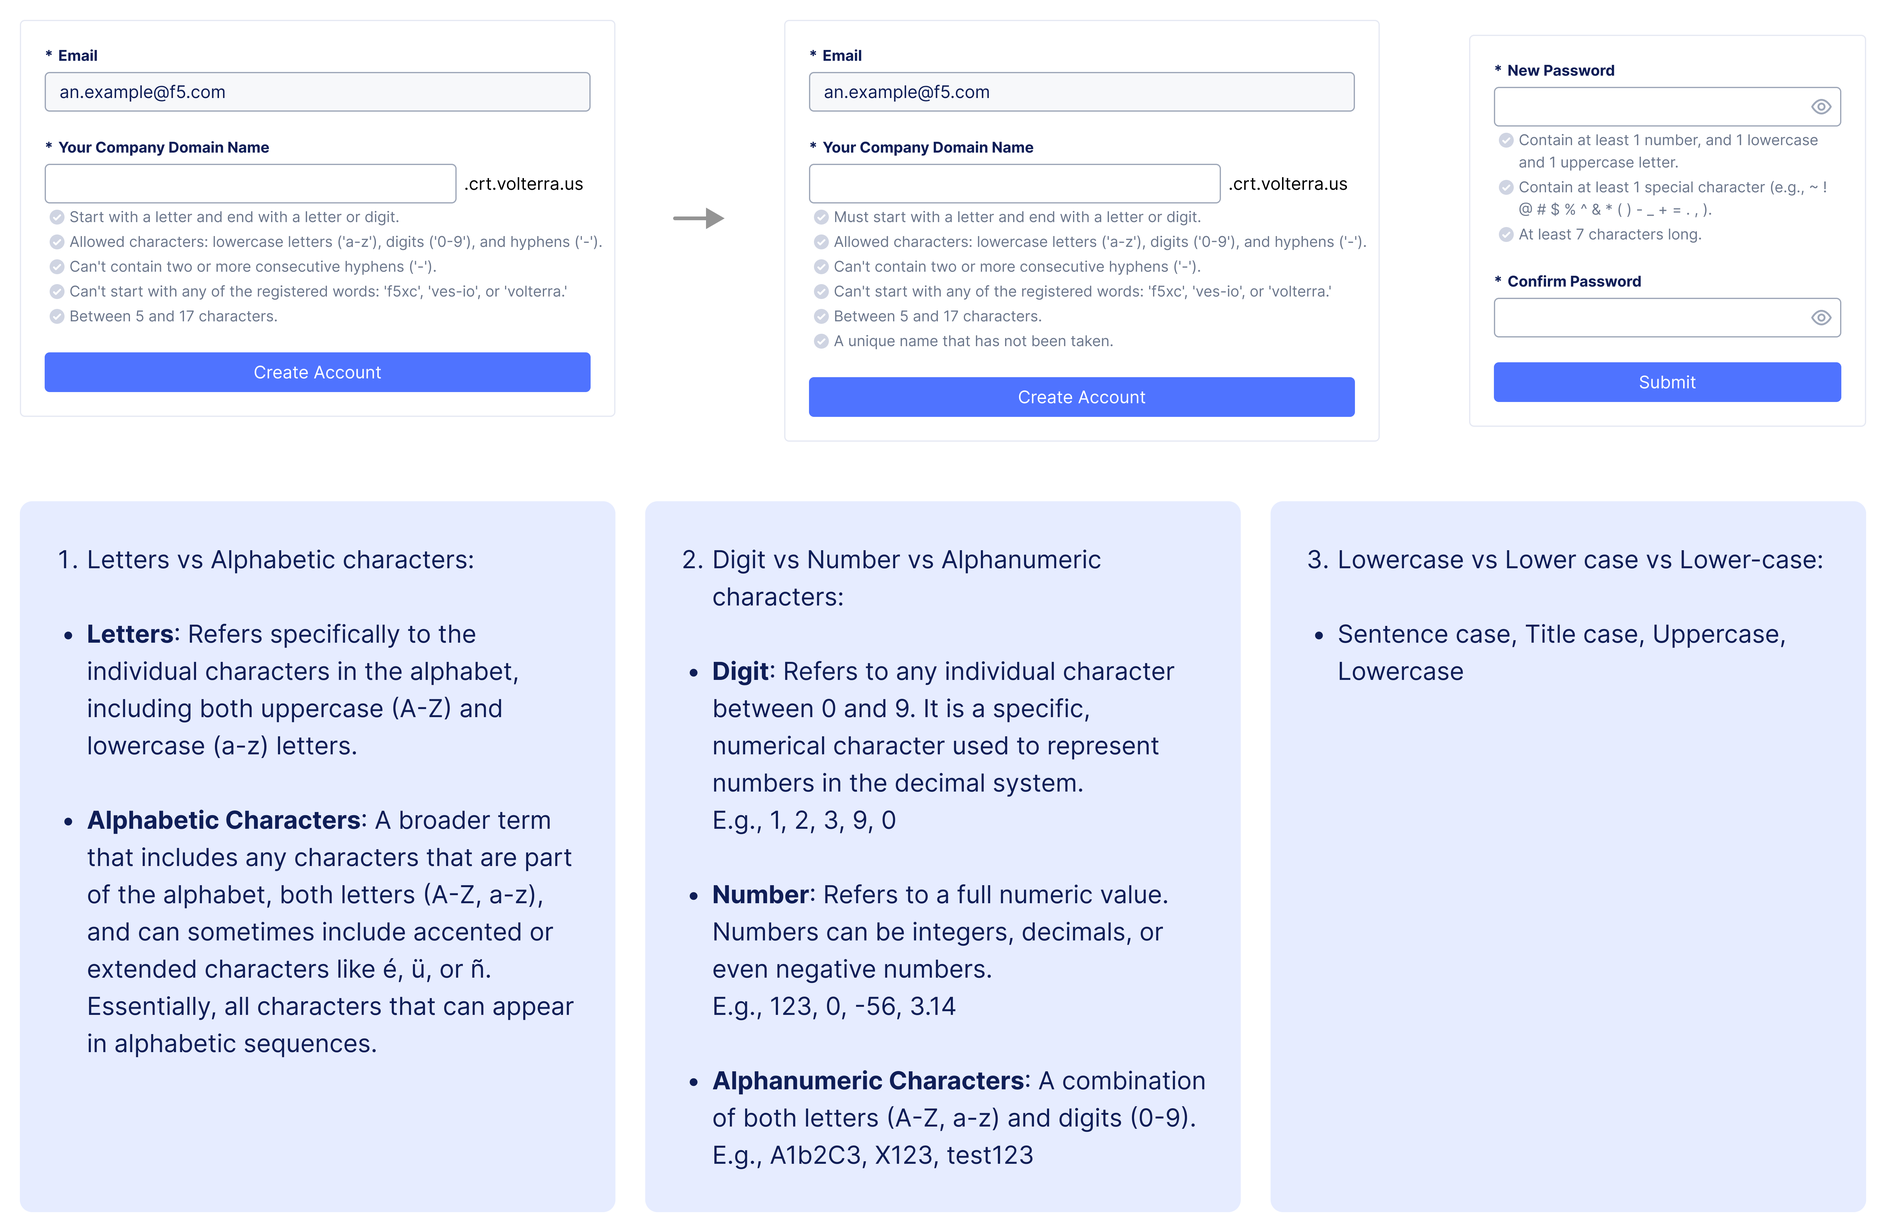
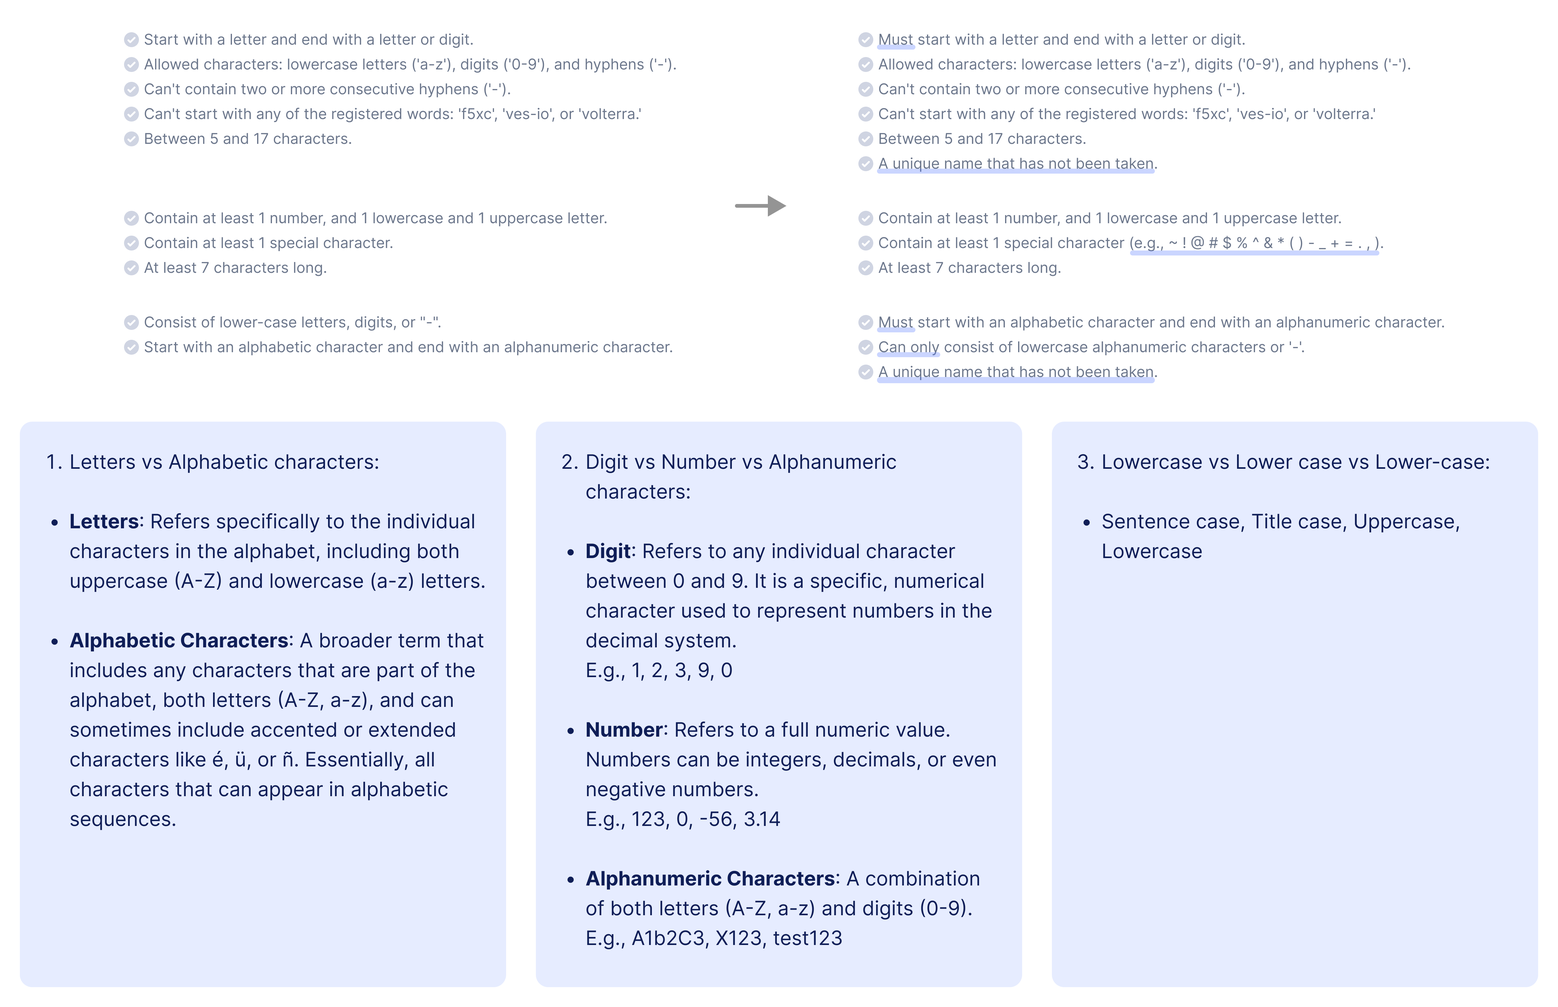
0920-1

diff --git a/input_instruction.html b/input_instruction.html
@@ -138,10 +138,10 @@
                       <h3>Project Vision</h3>
                     <p>
                       F5XC (Distributed Cloud) is a SaaS-based platform that provides unified management, security, and networking for applications deployed across multi-cloud, on-premises, and edge environments. 
-                      During the onboarding setup, users needed to create a domain name and password. They both required multiple criteria to ensure uniqueness and security. However, poor readability and unclear 
+                      During the onboarding setup, users needed to create a domain name and password. They both <b>required multiple criteria to ensure uniqueness and security</b>. However, poor readability and unclear 
                       feedback made it difficult for users to understand which requirements were unmet and how to correct errors. A similar issue appeared in the configuration wizard when creating object names. 
-                      To solve this, we addressed all three scenarios together by designing a standardized interaction pattern. The new pattern helps users easily check requirements, understand their current status 
-                      at a glance, and clearly see what must be fixed before proceeding.
+                      To solve this, we addressed all three scenarios together by designing a standardized interaction pattern. The <b>new pattern helps users easily check requirements, understand their current status 
+                      at a glance, and clearly see what must be fixed before proceeding</b>.
                     </p>
   
                       </div>
@@ -236,7 +236,7 @@
   
                 <p>
                   At the start, we discovered that the instructions and error message presentation for both domain name and password creation in the F5XC platform made it difficult for users to understand input requirements, 
-                  restrictions, and errors. It was because multiple criteria were crammed into one paragraph, and there was no clear and specific feedback for user input. We later found the same issue in the object name creation 
+                  restrictions, and errors. It was because <b>multiple criteria were crammed into one paragraph</b>, and there was <b>no clear and specific feedback for user input</b>. We later found the same issue in the object name creation 
                   process within the configuration wizard. After discussing with the design system (DS) team, I decided to include this use case in the project as well. As a result, the project focused on four main scenarios: 
                 </p>    
   
@@ -274,21 +274,21 @@
                  <div class="item04" id="f5xc_page">
       
                <p class="paragraph_below_image">
-                I evaluated the current implementation and identified six usability issues across five heuristic categories (according to Jakob Nielsen’s heuristic principles):
+                I evaluated the current implementation and identified <b>six usability issues across five heuristic categories</b> (according to Jakob Nielsen’s heuristic principles):
                </p>     
 
 
                <table class="a">
                   <tr>
                     <td class="column01"><p><i class="fas fa-caret-right"></i></p></td>
-                    <td class="column02"><p>Visibility of System Status (The design should always keep users informed about what is going on, through appropriate feedback within a reasonable amount of time.):
+                    <td class="column02"><p><b>Visibility of System Status</b> (The design should always keep users informed about what is going on, through appropriate feedback within a reasonable amount of time.):
                                          <br> • The failing status becomes visible only after users press the proceed button.
                                          </p></td>
                   </tr>
 
                   <tr>
                     <td><p><i class="fas fa-caret-right"></i></p></td>
-                    <td><p>Consistency and Standards (Users should not have to wonder whether different words, situations, or actions mean the same thing. Follow platform and industry conventions.):
+                    <td><p><b>Consistency and Standards</b> (Users should not have to wonder whether different words, situations, or actions mean the same thing. Follow platform and industry conventions.):
                         <br> • The system shows inconsistent error messages for password input in the same scenario, which needs to be resolved.
                         <br> • The current password input pattern does not follow design system rules — error messages should appear inline rather than as section notifications.
                         <br> • Instructions and error messages are presented inconsistently across different use cases. They should either appear all at once or be shown contextually based on user input.
@@ -297,7 +297,7 @@
 
                   <tr>
                   <td><p><i class="fas fa-caret-right"></i></p></td>
-                  <td><p>Error Prevention (Even better than good error messages is a careful design that prevents a problem from occurring in the first place.):
+                  <td><p><b>Error Prevention</b> (Even better than good error messages is a careful design that prevents a problem from occurring in the first place.):
                     <br> • There is no input instructions for password and name fields.
                     <br> • Multiple criteria presented in a single sentence are difficult for users to digest and verify.
                      </p></td>
@@ -305,7 +305,7 @@
 
                <tr>
                  <td><p><i class="fas fa-caret-right"></i></p></td>
-                 <td><p>Aesthetic and Minimalist Design (Interfaces should not contain information that is irrelevant or rarely needed.) & Help Users Recognize, Diagnose, and Recover from Errors (Error messages should be expressed in plain language (no error codes), precisely indicate the problem, and constructively suggest a solution.):
+                 <td><p><b>Aesthetic and Minimalist Design</b> (Interfaces should not contain information that is irrelevant or rarely needed.) & <b>Help Users Recognize, Diagnose, and Recover from Errors</b> (Error messages should be expressed in plain language (no error codes), precisely indicate the problem, and constructively suggest a solution.):
                     <br> • Error messages do not specify which criteria have failed.
                      </p></td>
                </tr>
@@ -352,21 +352,21 @@
                 <table class="a">
                     <tr>
                       <td class="column01"><p><i class="fas fa-caret-right"></i></p></td>
-                      <td class="column02"><p>Error messages appear after a user action to indicate something went wrong and guide users on how to recover or proceed. Since users often scan rather than read in detail, 
-                                              error messages need to be clear, concise, and actionable.
+                      <td class="column02"><p>Error messages appear after a user action to <b>indicate something went wrong and guide users on how to recover or proceed</b>. Since users often scan rather than read in detail, 
+                                              error messages need to be <b>clear, concise, and actionable</b>.
                                            </p></td>
                     </tr>
   
                     <tr>
                       <td><p><i class="fas fa-caret-right"></i></p></td>
-                      <td><p>The message should address: "what happened,"  "why it happened and whether it might recur (if known and relevant)," "the impact, if any (only when helpful)," and "what actions to take next to resolve the issue."
+                      <td><p>The message should address: "<b>what</b> happened,"  "<b>why</b> it happened and whether it might recur (if known and relevant)," "the <b>impact</b>, if any (only when helpful)," and " <b>how</b> (what actions to take next) to resolve the issue."
                           </p></td>
                     </tr>
   
                     <tr>
                     <td><p><i class="fas fa-caret-right"></i></p></td>
-                    <td><p>The tone and terminology should be specific and clearly describe the problem to avoid confusion. It should feel human, avoiding unnecessary technical jargon or a robotic tone. 
-                           It should remain neutral — approachable yet credible. Avoid blaming the user or using all caps and excessive punctuation, as these can create feelings of alarm or aggression.
+                    <td><p>The tone and terminology should be specific and clearly describe the problem to avoid confusion. It should feel <b>human</b>, avoiding unnecessary technical jargon or a robotic tone. 
+                           It should remain <b>neutral</b> — approachable yet credible. <b>Avoid blaming</b> the user or using all caps and excessive punctuation, as these can create feelings of alarm or aggression.
                        </p></td>
                  </tr>
   
@@ -407,21 +407,21 @@
                   <h6 class="f5xc_color">Observe current design trends in the industry.</h6>
   
                 <p>
-                  With design principles in mind, I conducted feature benchmarking by reviewing around 20 tech systems to see how they handle multi-criteria input validation. From this research, I made several design decisions:
+                  With design principles in mind, I conducted <b>feature benchmarking</b> by reviewing around <b>20 tech systems</b> to see how they handle multi-criteria input validation. From this research, I made several design decisions:
                 </p>    
 
                 <table class="a">
                     <tr>
                       <td class="column01"><p><i class="fas fa-caret-right"></i></p></td>
-                      <td class="column02"><p>Break a paragraph into multiple bullet-point checks.</p></td>
+                      <td class="column02"><p>Break a paragraph into <b>multiple bullet-point checks</b>.</p></td>
                     </tr>
                     <tr>
                       <td><p><i class="fas fa-caret-right"></i></p></td>
-                      <td><p>Start with a clean view, and display input instructions once users focus on the field.</p></td>
+                      <td><p>Start with a clean view, and <b>display input instructions once users focus on</b> the field.</p></td>
                   </tr>
                   <tr>
                    <td><p><i class="fas fa-caret-right"></i></p></td>
-                   <td><p>Provide instant feedback — show which criteria are met and which still need work. (Instruction list updates dynamically with colors and icons as users type.)</p></td>
+                   <td><p>Provide instant feedback — show which criteria are met and which still need work. (Instruction list <b>updates dynamically</b> with colors and icons as users type.)</p></td>
                  </tr>
                  <tr>
                    <td><p><i class="fas fa-caret-right"></i></p></td>
@@ -448,7 +448,7 @@
                  <div class="item04" id="f5xc_page">
       
                <p class="paragraph_below_image">
-                  Before moving into ideation, I clarified the interaction flow and defined all the statuses to cover in the design — from initial, focus, and unfocus states to typing, proceed, and error states.
+                  Before moving into ideation, I <b>clarified the interaction flow and defined all the statuses</b> to cover in the design — from initial, focus, and unfocus states to typing, proceed, and error states.
                </p>     
               
       
@@ -497,8 +497,8 @@
   
   
                   <p>
-                    Following the F5XC design system and drawing inspiration from other tech platforms, I began ideating potential information presentation and interaction methods, defining the visual style, and involving DS 
-                    team members throughout each design stage to gather instant feedback and ensure a smooth, concise experience. Below are the key improvements made throughout the iterations:
+                    Following the F5XC design system and drawing inspiration from other tech platforms, I began ideating potential <b>information presentation and interaction methods</b>, defining the <b>visual style</b>, and <b>involving DS 
+                    team members</b> throughout each design stage to gather instant feedback and ensure a smooth, concise experience. Below are the key improvements made throughout the iterations:
                   </p>   
   
 
@@ -524,7 +524,7 @@
                             <td class="column06"><img src="img/icons_numbers/icons_number-52.png" class="icon_numbers" alt="Number 1"></td>
                             <td class="column02"><p>
                                 When users focus on the input field, all criteria appear as checkpoints. Initially, I used alert icons for unfulfilled items, which then switched to warning messages when the field was unfocused. 
-                                After feedback from the DS team, I shifted to a more neutral approach — using a grey check icon to indicate “to-do” status both during typing and when unfocused — to reduce frustration and avoid negative feelings.
+                                After feedback from the DS team, I shifted to a more neutral approach — using a <b>grey check icon to indicate “to-do” status both during typing and when unfocused</b> — to <b>reduce frustration and avoid negative feelings</b>.
                             </p>
 
                           
@@ -552,7 +552,7 @@
                             <td class="column06"><img src="img/icons_numbers/icons_number-53.png" class="icon_numbers" alt="Number 2"></td>
                             <td class="column02"><p>
                                 When users proceeded and triggered an error, my initial idea was to keep the error status visible until all criteria were met. Later, considering users' feelings, I adjusted this by switching to 
-                                a neutral “to-do” status while users typed, better reflecting the "in-progress" state and reducing annoyance.
+                                a <b>neutral “to-do” status while users typed</b>, better <b>reflecting the "in-progress" state and reducing annoyance</b>.
                             </p>
 
                           
@@ -578,9 +578,9 @@
                           <tr>
                             <td class="column06"><img src="img/icons_numbers/icons_number-54.png" class="icon_numbers" alt="Number 3"></td>
                             <td class="column02"><p>
-                                From my observation, some systems use visual indicators to show password strength. At first, I explored this idea, thinking it might be helpful. However, after discussions with the DS team, 
+                                From my observation, some systems use <b>visual indicators to show password strength</b>. At first, I explored this idea, thinking it might be helpful. However, after discussions with the DS team, 
                                 we realized this approach works better when there are only one or two requirements. In our case, password strength could be addressed by simply increasing the minimum length (e.g., 12+ characters). 
-                                Since multiple validations were already in place, the visualization wouldn’t add much value. Ultimately, I decided not to pursue this approach.
+                                Since <b>multiple validations were already in place, the visualization wouldn’t add much value</b>. Ultimately, I decided not to pursue this approach.
                             </p></td>
                           </tr>
                    
@@ -606,7 +606,7 @@
                             <td class="column06"><img src="img/icons_numbers/icons_number-55.png" class="icon_numbers" alt="Number 4"></td>
                             <td class="column02"><p>
                                 Alongside inline instructions and error messages, I also considered using floating dialogs to avoid changes in input section height. However, keeping the dialog always visible could confuse users, 
-                                and in the configuration wizard, it would block the navigation bar. For these reasons, I ultimately chose to move forward with the inline message approach. 
+                                and in the configuration wizard, it would block the navigation bar. For these reasons, I ultimately chose to move forward with the <b>inline message approach</b>. 
                               </p>
     
                           </td>
@@ -633,7 +633,7 @@
                           <tr>
                             <td class="column06"><img src="img/icons_numbers/icons_number-56.png" class="icon_numbers" alt="Number 5"></td>
                             <td class="column02"><p>
-                              I explored different color and icon options while following design system rules. Discussions with the DS team revealed that small outlined icons had poor legibility at 100% size compared to filled ones. 
+                              I explored different color and icon options while following design system rules. Discussions with the DS team revealed that <b>small outlined icons had poor legibility at 100% size compared to filled ones</b>. 
                               For the initial status, both outlined and filled grey icons could work, but creating a new outlined icon just for this case would not be reusable. 
                             </p>
   
@@ -666,7 +666,7 @@
                           <tr>
                             <td class="column06"></td>
                             <td class="column02"><p>
-                                I also tested for color blindness (e.g., protanopia, deuteranopia, achromatopsia) to ensure status differentiation. Eventually, I selected the option that best balanced legibility, consistency, and resource efficiency.
+                                I also tested for <b>color blindness</b> (e.g., protanopia, deuteranopia, achromatopsia) to ensure status differentiation. Eventually, I selected the option that best <b>balanced legibility, consistency, and resource efficiency</b>.
                             </p>
   
                           </td>
@@ -704,7 +704,7 @@
                                 While reviewing object name creation in the configuration wizard, I noticed that for the name taken scenario, the error message “Object already exists” was unclear and confusing — users would not 
                                 know how, where, or what to fix. Ideally, the system should specify “the name has been taken” and highlight the name field for correction. With this in mind, I explored several solutions: using a 
                                 section notification, highlighting the input field and section with a red border, adding an inline error message below the field, renaming “Name” to “Unique Name,” or integrating uniqueness into 
-                                the validation checkpoints. After feedback from the DS team, I decided to make uniqueness an independent requirement, supported by a progressive frontend API check while typing, rather than a 
+                                the validation checkpoints. After feedback from the DS team, I decided to <b>make uniqueness an independent requirement</b>, supported by a <b>progressive frontend API check while typing</b>, rather than a 
                                 backend-only check after submission (even with a delayed API call to reduce the number of requests).
                             </p>
   
@@ -732,9 +732,9 @@
                           <tr>
                             <td class="column06"><img src="img/icons_numbers/icons_number-58.png" class="icon_numbers" alt="Number 7"></td>
                             <td class="column02"><p>
-                                To make the criteria easier for users to understand, I worked with the DS team to break down long paragraphs into checkpoints and reorder them for better logic. We refined the wording to be more 
-                                straightforward and intuitive, and I proposed adding examples for special characters (any ASCII character is accepted, and leading/trailing spaces are not trimmed) to give users clarity. 
-                                During this process, I also noticed inconsistent terminology across different places. By collaborating with the DS team, we clarified definitions and documented standardized terms in the design 
+                                To make the criteria easier for users to understand, I worked with the DS team to <b>break down long paragraphs into checkpoints</b> and <b>reorder them for better logic</b>. We refined the wording to be more 
+                                straightforward and intuitive, and I proposed <b>adding examples for special characters</b> (any ASCII character is accepted, and leading/trailing spaces are not trimmed) to give users clarity. 
+                                During this process, I also noticed inconsistent terminology across different places. By collaborating with the DS team, we <b>clarified definitions and documented standardized terms</b> in the design 
                                 system for future reference.
                             </p>
   
@@ -893,8 +893,8 @@
                 <h6 class="f5xc_color">Enhance efficiency of multi-criteria input validation and standardize terminology usage.</h6>
 
                 <p>
-                    The new standardized design pattern enables users to efficiently review and verify multiple input criteria. This project also provided an opportunity to resolve other error message issues in configuration, 
-                    clarify input character and letter terminology, and define their usage in the design system.
+                    The <b>new standardized design pattern</b> enables users to efficiently review and verify multiple input criteria. This project also provided an opportunity to <b>resolve other error message issues</b> in configuration, 
+                  <b>clarify input character and letter terminology</b>, and define their usage in the design system.
                 </p>    
 
 
